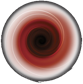
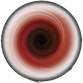
+ black hole enlarged, + helper improved

diff --git a/examples/cern_horror/lib/cern_horror.rb b/examples/cern_horror/lib/cern_horror.rb
@@ -32,38 +32,47 @@ class CernHorror < GameWindow
   end
   
   def setup_players
-    @player1 = add Player, 0, rand(height)
-    @player1.controls(Gosu::Button::KbA => Moveable.left(0.2),
-                      Gosu::Button::KbD => Moveable.right(0.2),
-                      Gosu::Button::KbS => Moveable.down(0.2),
-                      Gosu::Button::KbW => Moveable.up(0.2))
+    @black_hole = add BlackHole, width/2, height/2
+    @black_hole.ui width/2, height-50, Gosu::Color.new(0,0,0) do souls_needed end
+    
+    steering_strength = 0.3
+    
+    @player1 = add Player, 10, rand(height)
+    @player1.controls(Gosu::Button::KbA => Moveable.left(steering_strength),
+                      Gosu::Button::KbD => Moveable.right(steering_strength),
+                      Gosu::Button::KbS => Moveable.down(steering_strength),
+                      Gosu::Button::KbW => Moveable.up(steering_strength))
     @player1.image_from 'player1.png'
     @player1.ui 10, height-30, Gosu::Color.new(0,0,0) do
       destroyed? ? "DEAD" : "P1: #{souls_saved}"
     end
       
-    @player2 = add Player, width, rand(height)
-    @player2.controls(Gosu::Button::KbLeft  => Moveable.left(0.2),
-                      Gosu::Button::KbRight => Moveable.right(0.2),
-                      Gosu::Button::KbUp    => Moveable.down(0.2),
-                      Gosu::Button::KbDown  => Moveable.up(0.2))
+    @player2 = add Player, width-10, rand(height)
+    @player2.controls(Gosu::Button::KbLeft  => Moveable.left(steering_strength),
+                      Gosu::Button::KbRight => Moveable.right(steering_strength),
+                      Gosu::Button::KbUp    => Moveable.down(steering_strength),
+                      Gosu::Button::KbDown  => Moveable.up(steering_strength))
     @player2.image_from 'player2.png'
     @player2.ui width-60, height-30, Gosu::Color.new(0,0,0) do
       destroyed? ? "DEAD" : "P2: #{souls_saved}"
     end
     
-    @player3 = add Player, rand(width), 0
-    @player3.controls(Gosu::Button::KbJ => Moveable.left(0.2),
-                      Gosu::Button::KbL => Moveable.right(0.2),
-                      Gosu::Button::KbI => Moveable.down(0.2),
-                      Gosu::Button::KbK => Moveable.up(0.2))
+    @player3 = add Player, rand(width), 10
+    @player3.controls(Gosu::Button::KbJ => Moveable.left(steering_strength),
+                      Gosu::Button::KbL => Moveable.right(steering_strength),
+                      Gosu::Button::KbI => Moveable.down(steering_strength),
+                      Gosu::Button::KbK => Moveable.up(steering_strength))
     @player3.image_from 'player3.png'
     @player3.ui width/2-20, 10, Gosu::Color.new(0,0,0) do
       destroyed? ? "DEAD" : "P3: #{souls_saved}"
     end
     
-    @black_hole = add BlackHole, width/2, height/2
-    @black_hole.ui width/2, height-50, Gosu::Color.new(0,0,0) do souls_needed end
+    # Make the players rotate in the beginning. Opposite all the debris.
+    #
+    @players = [@player1, @player2, @player3]
+    @players.each do |player|
+      player.speed = gravity_vector_for(player).rotate((Math::PI/2).radians_to_vec2)/5
+    end
   end
   
   def gravity_vector_for thing

diff --git a/examples/cern_horror/lib/units/black_hole.rb b/examples/cern_horror/lib/units/black_hole.rb
@@ -4,6 +4,8 @@ class BlackHole < Thing
   
   it_has UserInterface
   
+  layer Layer::Ambient
+  
   image 'black_hole.png'
   
   shape :circle, 30.0
@@ -16,7 +18,7 @@ class BlackHole < Thing
   def initialize *args
     super
     self.souls_needed = 10
-    self.torque = 1
+    self.torque = 0.5
   end
   
   def baby_consumed
@@ -25,6 +27,12 @@ class BlackHole < Thing
   
   def finished?
     self.souls_needed.zero?
+  end
+  
+  # TODO Maybe enlarge to fill full screen?
+  #
+  def current_size
+    @cached_size ||= [5.0, 5.0]
   end
   
 end

diff --git a/examples/cern_horror/lib/units/player.rb b/examples/cern_horror/lib/units/player.rb
@@ -6,7 +6,7 @@ class Player < Thing
   
   # shape :poly, [CP::Vec2.new(-16,-16), CP::Vec2.new(-16,16), CP::Vec2.new(16,16), CP::Vec2.new(16,-16)]
   shape :circle, 16
-  mass 85
+  mass 80
   moment 0.1
   friction 10.0
   

diff --git a/examples/cern_horror/lib/units/baby.rb b/examples/cern_horror/lib/units/baby.rb
@@ -13,7 +13,7 @@ class Baby < Thing
   
   def move
     self.rotation += rand / 1000
-    self.speed += window.gravity_vector_for(self) / 500
+    self.speed += window.gravity_vector_for(self) / 400
   end
   
 end

diff --git a/examples/cern_horror/lib/debris/sofa.rb b/examples/cern_horror/lib/debris/sofa.rb
@@ -3,6 +3,6 @@ class Sofa < Debris
   image 'debris/sofa.png'
   
   shape :poly, [CP::Vec2.new(-25,-12), CP::Vec2.new(-25,12), CP::Vec2.new(25,12), CP::Vec2.new(25,-12)]
-  mass 120
+  mass 200
   
 end
